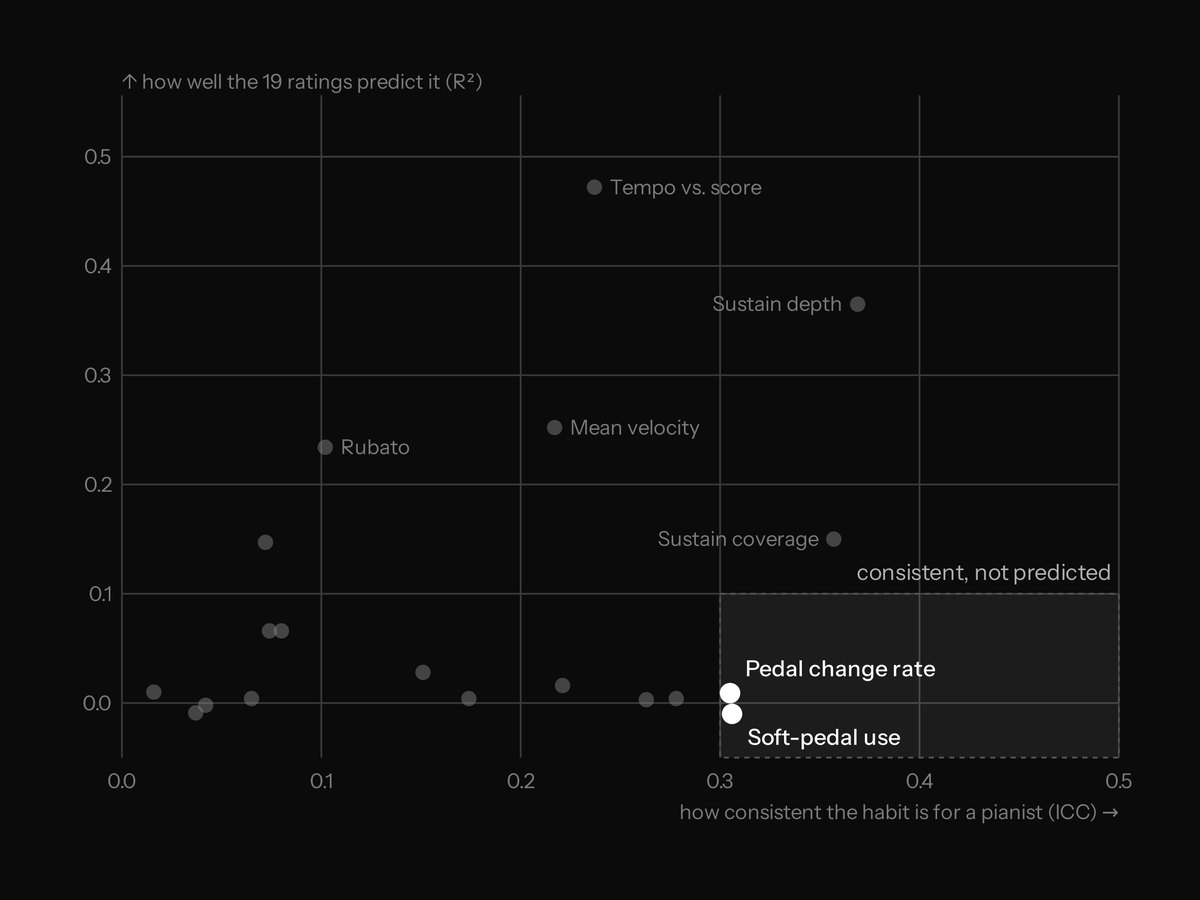
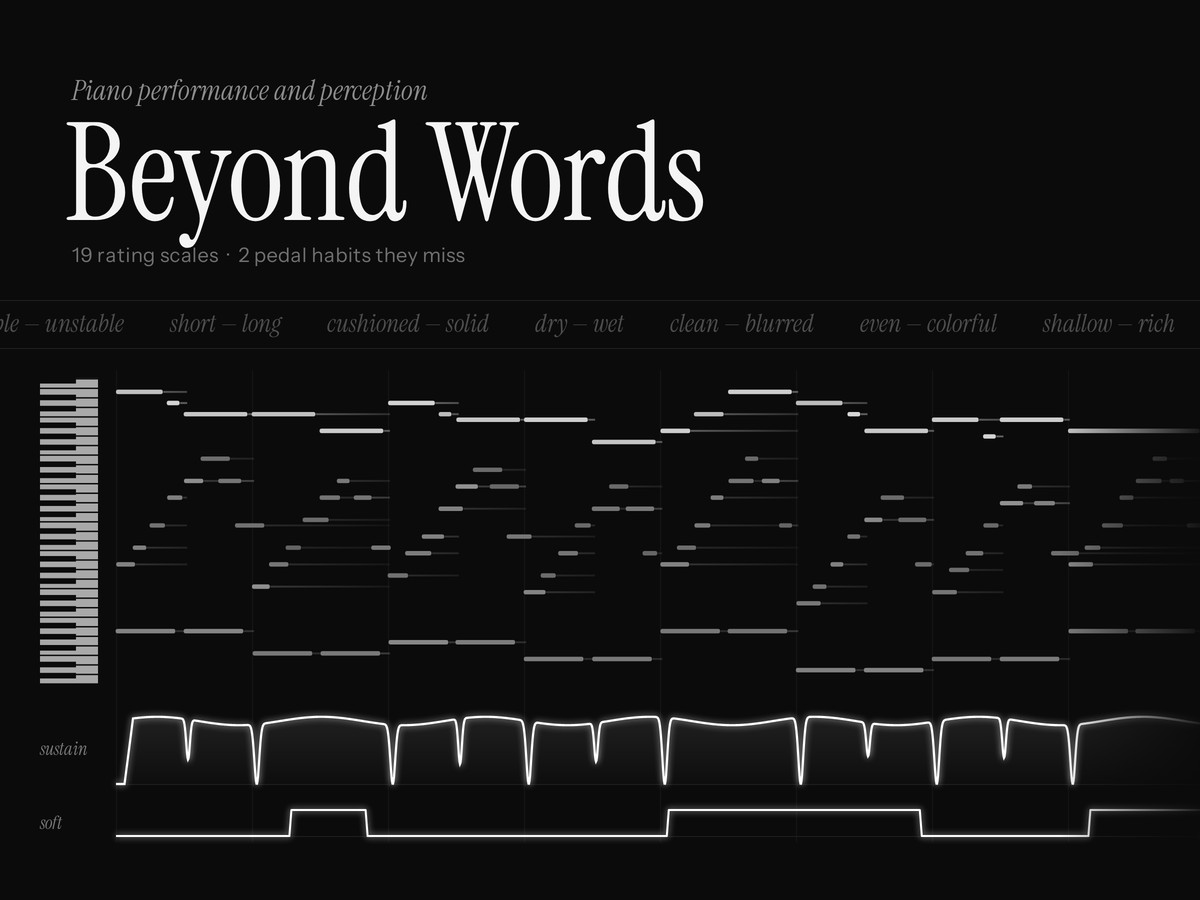
Cover art for the Beyond Words and Neural Orchestra cards: a piano roll above glowing pedal lanes, and four players' EEG turning into instrument waves

diff --git a/index.html b/index.html
@@ -395,7 +395,7 @@ body.gallery-canvas .gc-fit.is-visible { opacity: 1; visibility: visible; }
     <h2 class="label">selected projects</h2>
     <div class="cards">
       <article class="card">
-        <a class="media" href="/projects/beyond-words/" tabindex="-1" aria-hidden="true"><img src="images/projects/beyond-words.jpg" alt="" width="1200" height="900" loading="lazy"></a>
+        <a class="media" href="/projects/beyond-words/" tabindex="-1" aria-hidden="true"><img src="images/projects/beyond-words.jpg?v=cover" alt="" width="1200" height="900" loading="lazy"></a>
         <div class="card-body">
           <h3><a href="/projects/beyond-words/">Beyond Words</a></h3>
           <p class="badge"><span aria-hidden="true">✦</span>independent research 2026</p>
@@ -413,7 +413,7 @@ body.gallery-canvas .gc-fit.is-visible { opacity: 1; visibility: visible; }
         </div>
       </article>
       <article class="card">
-        <div class="media" aria-hidden="true" data-gen="flow:11"></div>
+        <div class="media" aria-hidden="true"><img src="images/projects/neural-orchestra.jpg?v=cover" alt="" width="1200" height="900" loading="lazy"></div>
         <div class="card-body">
           <h3>Neural Orchestra</h3>
           <p class="badge"><span aria-hidden="true">✦</span>MACL, in progress</p>
